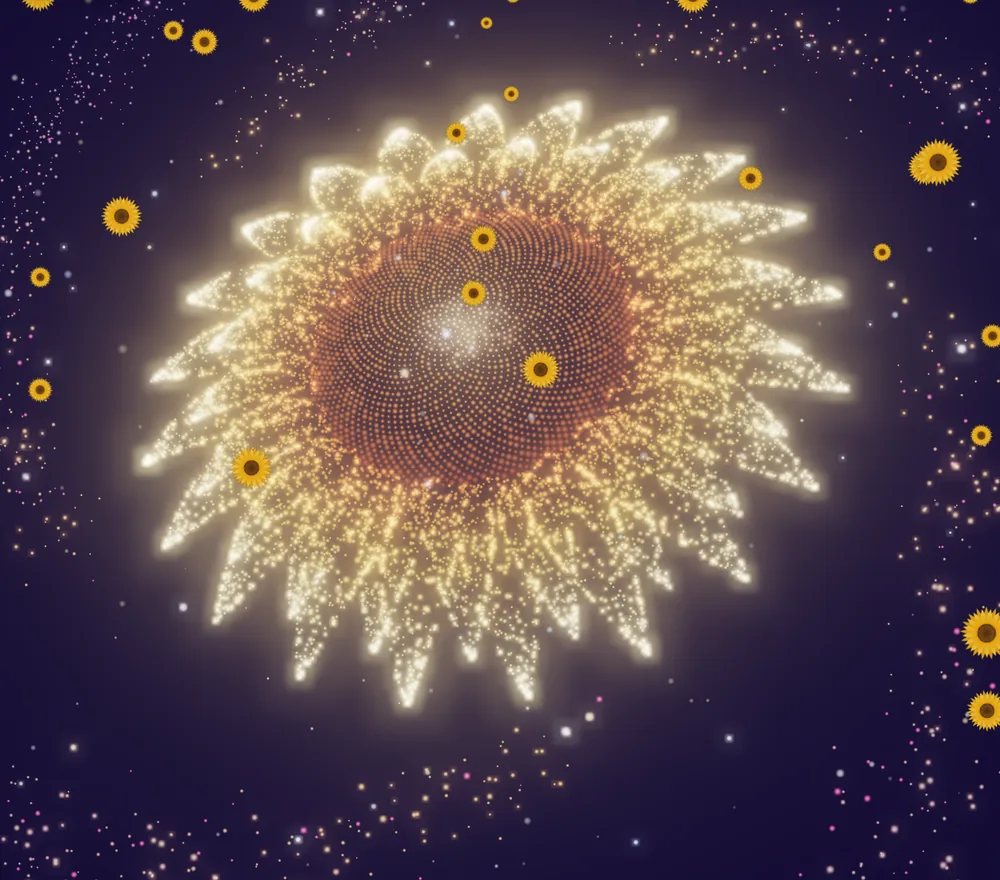
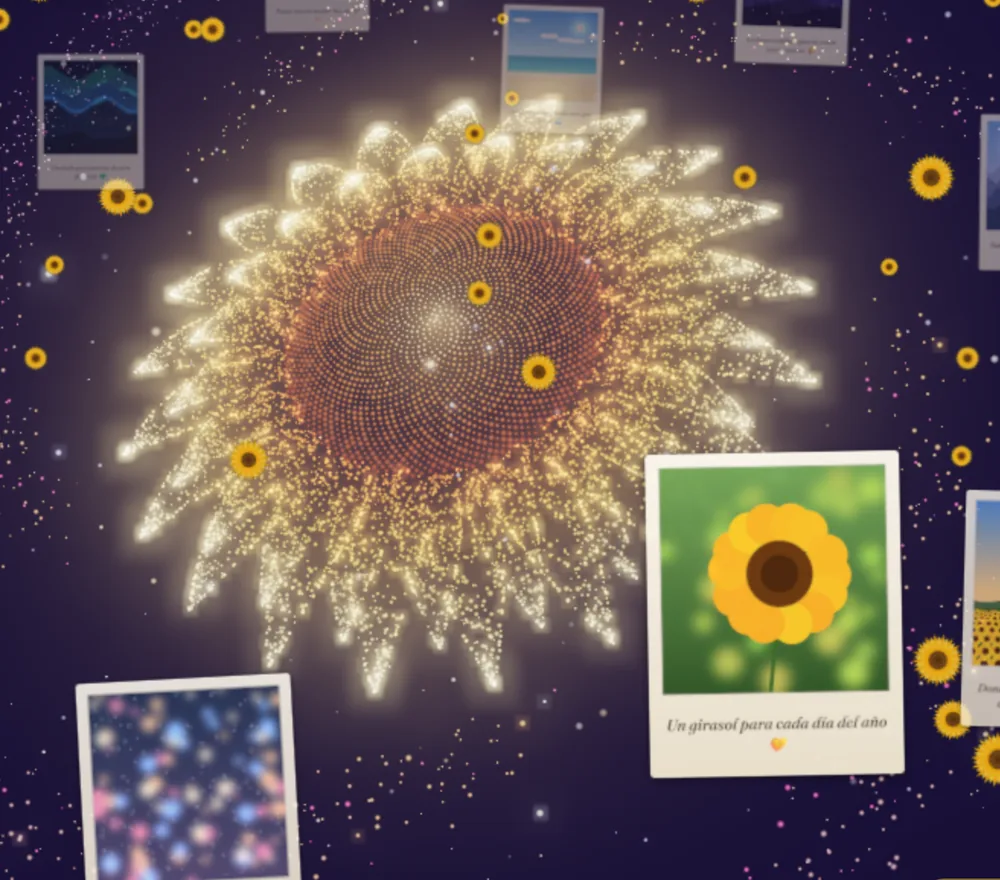
Enlaza la demo con fotos de ejemplo de Mi Universo Entero

diff --git a/src/data/portfolio.ts b/src/data/portfolio.ts
@@ -167,7 +167,7 @@ export const PROYECTOS: Proyecto[] = [
     tecnologias: ["JavaScript", "Three.js", "WebGL", "HTML y CSS", "Git y GitHub"],
     visibilidad: "publico",
     repo: "21-de-septiembre",
-    demo: "https://alejandronicolasdelalamo.github.io/21-de-septiembre/",
+    demo: "https://alejandronicolasdelalamo.github.io/21-de-septiembre/demo/",
     imagen: { src: "/projects/girasol-galaxia.webp", ancho: 1000, alto: 880, ajuste: "cover", posicion: "centro" },
     fondo: "#120b3a",
     destacado: false,
